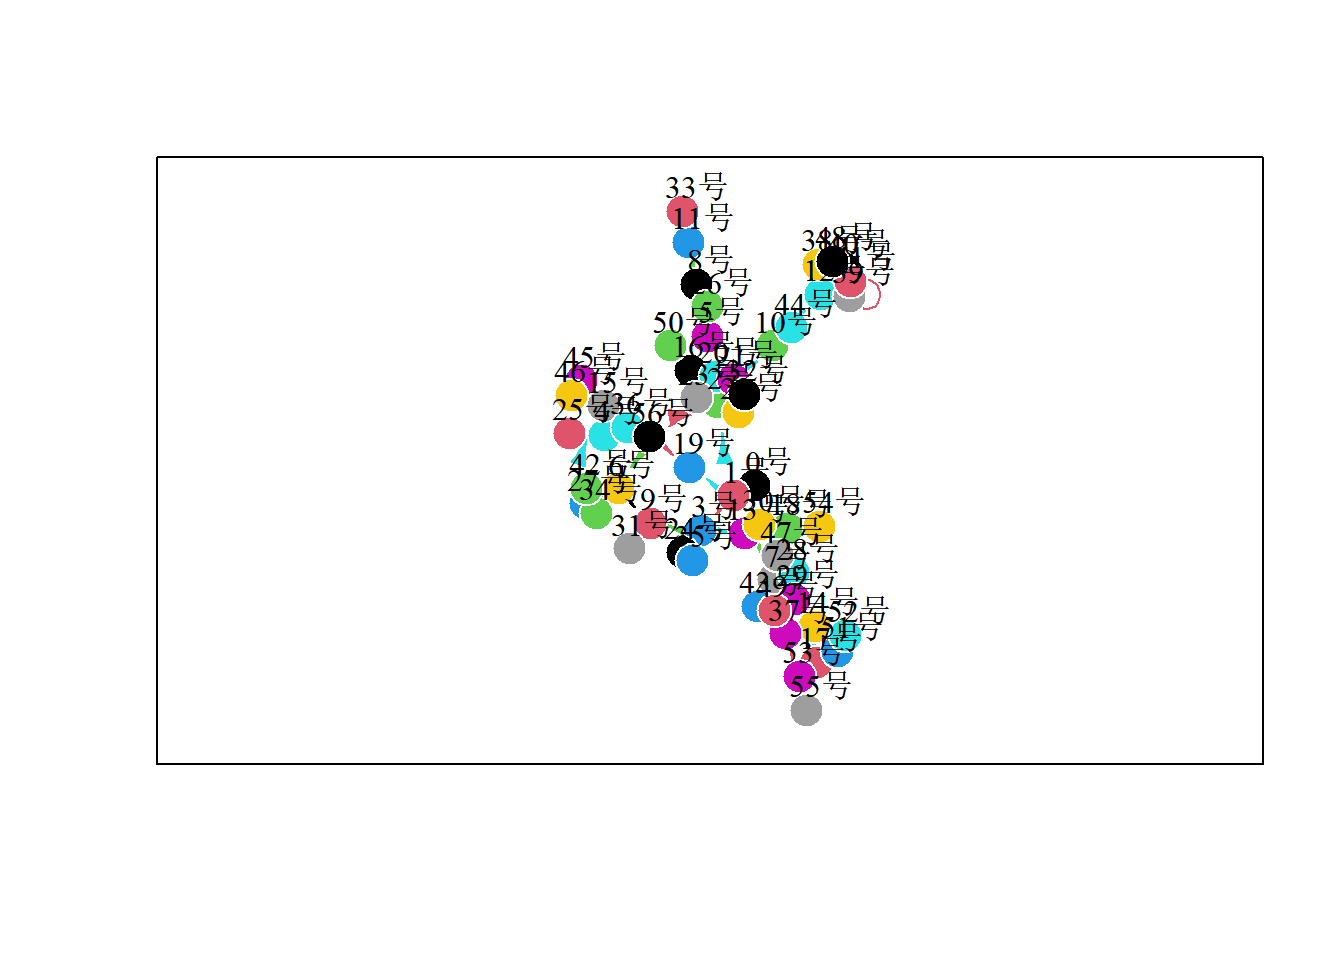
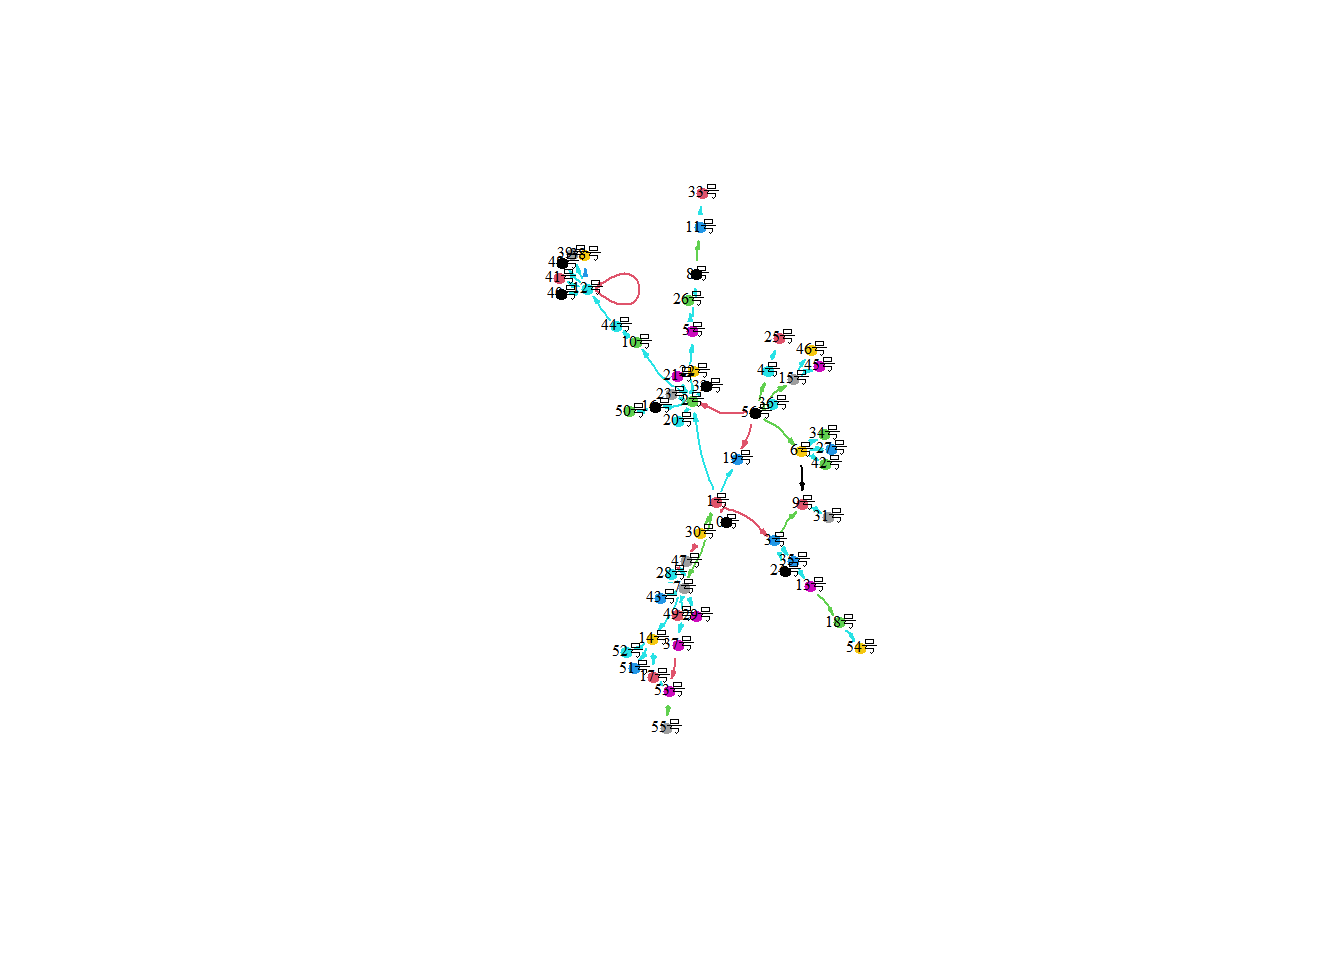
network

Changed region(s): [[0.4062, 0.1562, 0.6875, 0.75], [0.4688, 0.75, 0.5, 0.7812]]

diff --git a/content/post/2022-03-25-chainr/index.html b/content/post/2022-03-25-chainr/index.html
@@ -42,16 +42,44 @@ cover:
 <script src="{{< blogdown/postref >}}index_files/sankeyNetwork-binding/sankeyNetwork.js"></script>
 
 
-<div id="目的" class="section level2">
-<h2>目的</h2>
-<p>在这次疫情处理过程中，了解到在清理传播链的过程中，很多时候仍然是用手工或者<code>powerpoint</code>等软件绘制传播链的。采用这种方式的优点在，能够在图中加入很多信息，比如：人员大致位置分布，接触的途径和强度等信息。但是不足之处在于，在链条上节点（感染者）较少的时候还能够梳理得很明确，但一旦节点达到一定数量，且其中关系变得复杂（比如1人传多个，1人与多个感染者有接触之类）。在这种情况下，单纯的手工整理，将耗费非常多的人力。最严重的缺点是，当现场流调信息变更，对链条进行修订的时，其中一个节点或链接的变化，会因连锁作用导致整个链条的变化。节点越多，变化的影响范围越大，越复杂。当感染者人数上升到一定数量时，手动整理已经变成了一件难以完成的事情。由于本人对R的热衷，探索了一下能不能使用软件自动化的方式绘制传播链，使用<code>igraph``ggraph</code>和<code>networkD3</code>最终效果如下33图,个人觉得还是<code>networkD3</code>炫酷的互动效果最好。</p>
-<p><img src="{{< blogdown/postref >}}index_files/figure-html/unnamed-chunk-2-1.png" width="672" style="display: block; margin: auto;" /><img src="{{< blogdown/postref >}}index_files/figure-html/unnamed-chunk-2-2.png" width="672" style="display: block; margin: auto;" /></p>
+<div id="初衷" class="section level2">
+<h2>初衷</h2>
+<p>在这次疫情处理过程中，了解到在清理传播链的过程中，很多时候仍然是用手动在<code>powerpoint</code>等软件绘制传播链的。采用这种方式的优点能够在图中根据涉及者需要加入很多信息，比如：人员大致位置分布，接触的途径和强度等信息。不足之处在于，<strong>在链条上节点（感染者）较少的时候还能够梳理得很明确，但一旦节点达到一定数量，且其中关系变得复杂</strong>（比如1人传多个，1人与多个感染者有接触之类）。</p>
+<p>在这种情况下。单纯的手工整理，将耗费非常多的脑力。最严重的缺点是，当现场流调信息变更，对链条进行修订的时，其中一个节点或链接的变化，会因连锁作用导致整个链条的变化。节点越多，变化的影响范围越大，越复杂，就像整理线头一样。当感染者人数上升到一定数量时，手动整理已经变成了一件难以完成的事情。由于本人对R的热衷，探索了一下能不能使用软件<strong>自动化链</strong><del>就是自己懒嘛</del>的方式绘制传播，使用<code>igraph</code>，<code>ggraph</code>和<code>networkD3</code>最终效果如下面几张图,个人觉得还是<code>networkD3</code>炫酷的互动效果最好。</p>
+</div>
+<div id="具体制作过程" class="section level1">
+<h1>具体制作过程</h1>
+<p>参见我使用的3个包的说明。。。。。详细步骤待补充。</p>
+<div id="数据" class="section level2">
+<h2>数据</h2>
+<div id="节点数据" class="section level3">
+<h3>节点数据</h3>
+<p>节点数据里面只需要包含所有感染者的基本信息，比如编号，姓名，类别等等。</p>
+</div>
+<div id="边数据" class="section level3">
+<h3>边数据</h3>
+<p>边数据最基础的要求为，节点数据左右感染者的对应关系，简单说就像Excel两列，第一列<code>from</code>， 第二列<code>to</code>，代表每一行两个感染者的关系，从谁传播到谁，当然这些资料需要辛苦在现场的流调专家们提供。</p>
+</div>
+</div>
+<div id="可视化" class="section level2">
+<h2>可视化</h2>
+<div id="igraph" class="section level3">
+<h3>igraph</h3>
+<p>首先使用<code>graph_from_data_frame(d =line, vertices = node,  directed = T)</code>将节点和边转换成<code>igraph</code>，就可以直接<code>plot</code>第一张图, 参数自己可以调节。</p>
+<p><img src="{{< blogdown/postref >}}index_files/figure-html/unnamed-chunk-4-1.png" width="672" style="display: block; margin: auto;" /></p>
+</div>
+<div id="ggraph" class="section level3">
+<h3>ggraph</h3>
+<p><code>ggraph</code>基本研用了<code>ggplot2</code>绘图的方式，画出来的图也相对更漂亮。首先使用<code>tidygraph</code>包将<code>igraph</code>类型的数据转换为<code>ggraph</code>更合适的元数据。然后可以愉快地使用<code>ggplot2</code>的方式画图了。</p>
+<p><img src="{{< blogdown/postref >}}index_files/figure-html/unnamed-chunk-5-1.png" width="672" style="display: block; margin: auto;" /></p>
+</div>
+<div id="netwokd3" class="section level3">
+<h3>netwokd3</h3>
+<p>个人最喜欢的效果，使用<code>igraph_to_networkD3</code>命令，将<code>igraph</code>数据转换一下，就可以使用<code>simpleNetwork</code>,<code>forceNetwork</code>，<code>sankeyNetwork(</code>画出交互性网络图了。</p>
 <div id="htmlwidget-1" style="width:672px;height:480px;" class="forceNetwork html-widget"></div>
 <script type="application/json" data-for="htmlwidget-1">{"x":{"links":{"source":[2,8,10,12,3,7,56,2,14,13,1,56,0,2,2,2,2,3,4,5,6,7,7,1,56,1,9,2,11,6,24,3,56,7,12,12,1,12,12,6,7,10,15,15,7,28,30,12,7,56,16,14,14,17,37,18,53,2,56,1,5,3,6],"target":[10,11,12,12,13,14,15,16,17,18,19,19,1,20,21,22,23,24,25,26,27,28,29,2,2,30,31,32,33,34,35,35,36,37,38,39,3,40,41,42,43,44,45,46,47,47,47,48,49,4,50,51,52,53,53,54,55,5,6,7,8,9,9],"value":[8,4,8,3,8,8,4,8,8,4,8,3,3,8,8,8,8,8,8,8,8,8,8,8,3,4,8,8,8,8,3,8,4,8,6,8,3,8,8,8,8,8,8,8,8,3,3,8,8,4,8,8,8,8,3,8,4,8,4,4,8,4,2],"colour":["#666","#666","#666","#666","#666","#666","#666","#666","#666","#666","#666","#666","#666","#666","#666","#666","#666","#666","#666","#666","#666","#666","#666","#666","#666","#666","#666","#666","#666","#666","#666","#666","#666","#666","#666","#666","#666","#666","#666","#666","#666","#666","#666","#666","#666","#666","#666","#666","#666","#666","#666","#666","#666","#666","#666","#666","#666","#666","#666","#666","#666","#666","#666"]},"nodes":{"name":["0号","1号","2号","3号","4号","5号","6号","7号","8号","9号","10号","11号","12号","13号","14号","15号","16号","17号","18号","19号","20号","21号","22号","23号","24号","25号","26号","27号","28号","29号","30号","31号","32号","33号","34号","35号","36号","37号","38号","39号","40号","41号","42号","43号","44号","45号","46号","47号","48号","49号","50号","51号","52号","53号","54号","55号","56号"],"group":[2,2,2,1,7,2,1,6,5,1,2,5,8,4,3,9,2,3,4,2,2,2,2,2,1,7,2,1,6,6,6,1,2,5,1,1,2,3,8,8,8,8,1,6,2,9,9,6,8,6,2,3,3,3,4,3,2],"nodesize":[200,150,30.6,34,35.6,43.1,40.5,10.8,46.9,44.5,42.8,46.8,22.8,27.3,25.4,18.7,11,14.2,23.1,12.4,31.3,11.1,21.7,11.6,11.2,1.3,24,48.2,33.1,2.9,29.2,15.5,45.1,38,23.8,44.4,32.7,15,36,41.2,4.8,22.9,1.6,38.9,41.1,38.6,43.3,9.9,2.1,46.1,12,42.3,1.8,18.9,40.6,27.9,20]},"options":{"NodeID":"name","Group":"group","colourScale":"d3.scaleOrdinal(d3.schemeCategory20);","fontSize":12,"fontFamily":"serif","clickTextSize":30,"linkDistance":50,"linkWidth":"function(d) { return Math.sqrt(d.value); }","charge":-30,"opacity":2,"zoom":true,"legend":false,"arrows":true,"nodesize":true,"radiusCalculation":" Math.sqrt(d.nodesize)+6","bounded":false,"opacityNoHover":1,"clickAction":null}},"evals":[],"jsHooks":[]}</script>
 <div id="htmlwidget-2" style="width:672px;height:480px;" class="sankeyNetwork html-widget"></div>
 <script type="application/json" data-for="htmlwidget-2">{"x":{"links":{"source":[2,8,10,12,3,7,56,2,14,13,1,56,0,2,2,2,2,3,4,5,6,7,7,1,56,1,9,2,11,6,24,3,56,7,12,12,1,12,12,6,7,10,15,15,7,28,30,12,7,56,16,14,14,17,37,18,53,2,56,1,5,3,6],"target":[10,11,12,12,13,14,15,16,17,18,19,19,1,20,21,22,23,24,25,26,27,28,29,2,2,30,31,32,33,34,35,35,36,37,38,39,3,40,41,42,43,44,45,46,47,47,47,48,49,4,50,51,52,53,53,54,55,5,6,7,8,9,9],"value":[8,4,8,3,8,8,4,8,8,4,8,3,3,8,8,8,8,8,8,8,8,8,8,8,3,4,8,8,8,8,3,8,4,8,6,8,3,8,8,8,8,8,8,8,8,3,3,8,8,4,8,8,8,8,3,8,4,8,4,4,8,4,2]},"nodes":{"name":["0号","1号","2号","3号","4号","5号","6号","7号","8号","9号","10号","11号","12号","13号","14号","15号","16号","17号","18号","19号","20号","21号","22号","23号","24号","25号","26号","27号","28号","29号","30号","31号","32号","33号","34号","35号","36号","37号","38号","39号","40号","41号","42号","43号","44号","45号","46号","47号","48号","49号","50号","51号","52号","53号","54号","55号","56号"],"group":["0号","1号","2号","3号","4号","5号","6号","7号","8号","9号","10号","11号","12号","13号","14号","15号","16号","17号","18号","19号","20号","21号","22号","23号","24号","25号","26号","27号","28号","29号","30号","31号","32号","33号","34号","35号","36号","37号","38号","39号","40号","41号","42号","43号","44号","45号","46号","47号","48号","49号","50号","51号","52号","53号","54号","55号","56号"]},"options":{"NodeID":"name","NodeGroup":"name","LinkGroup":null,"colourScale":"d3.scaleOrdinal(d3.schemeCategory20);","fontSize":16,"fontFamily":null,"nodeWidth":15,"nodePadding":10,"units":"Letter(s)","margin":{"top":null,"right":null,"bottom":null,"left":null},"iterations":20,"sinksRight":true}},"evals":[],"jsHooks":[]}</script>
 </div>
-<div id="具体制作过程" class="section level1">
-<h1>具体制作过程</h1>
-<p>参见我使用的3个包的说明。。。。。详细步骤待补充。</p>
+</div>
 </div>
